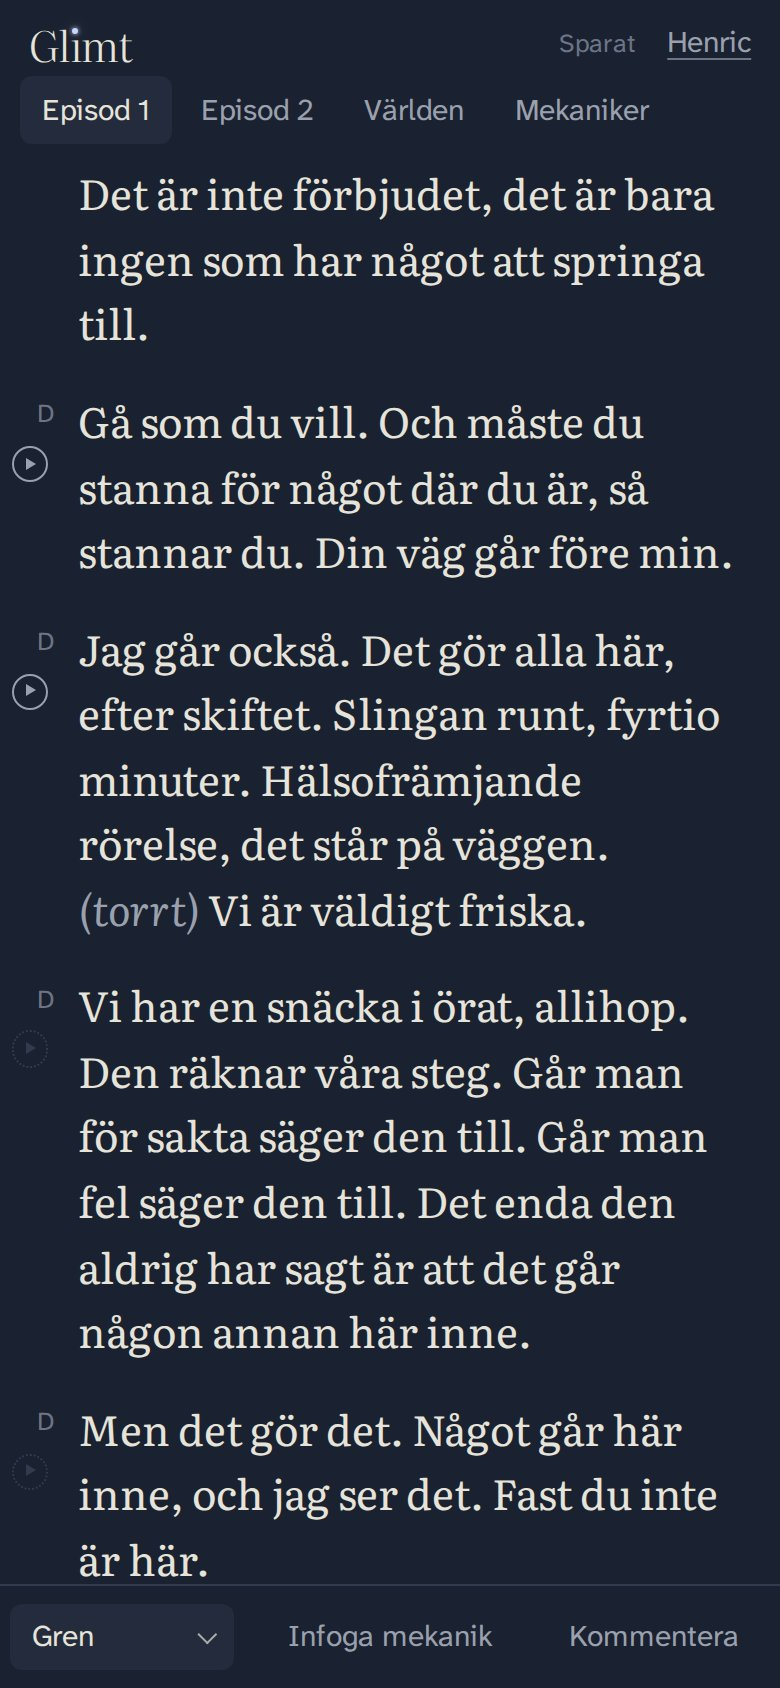
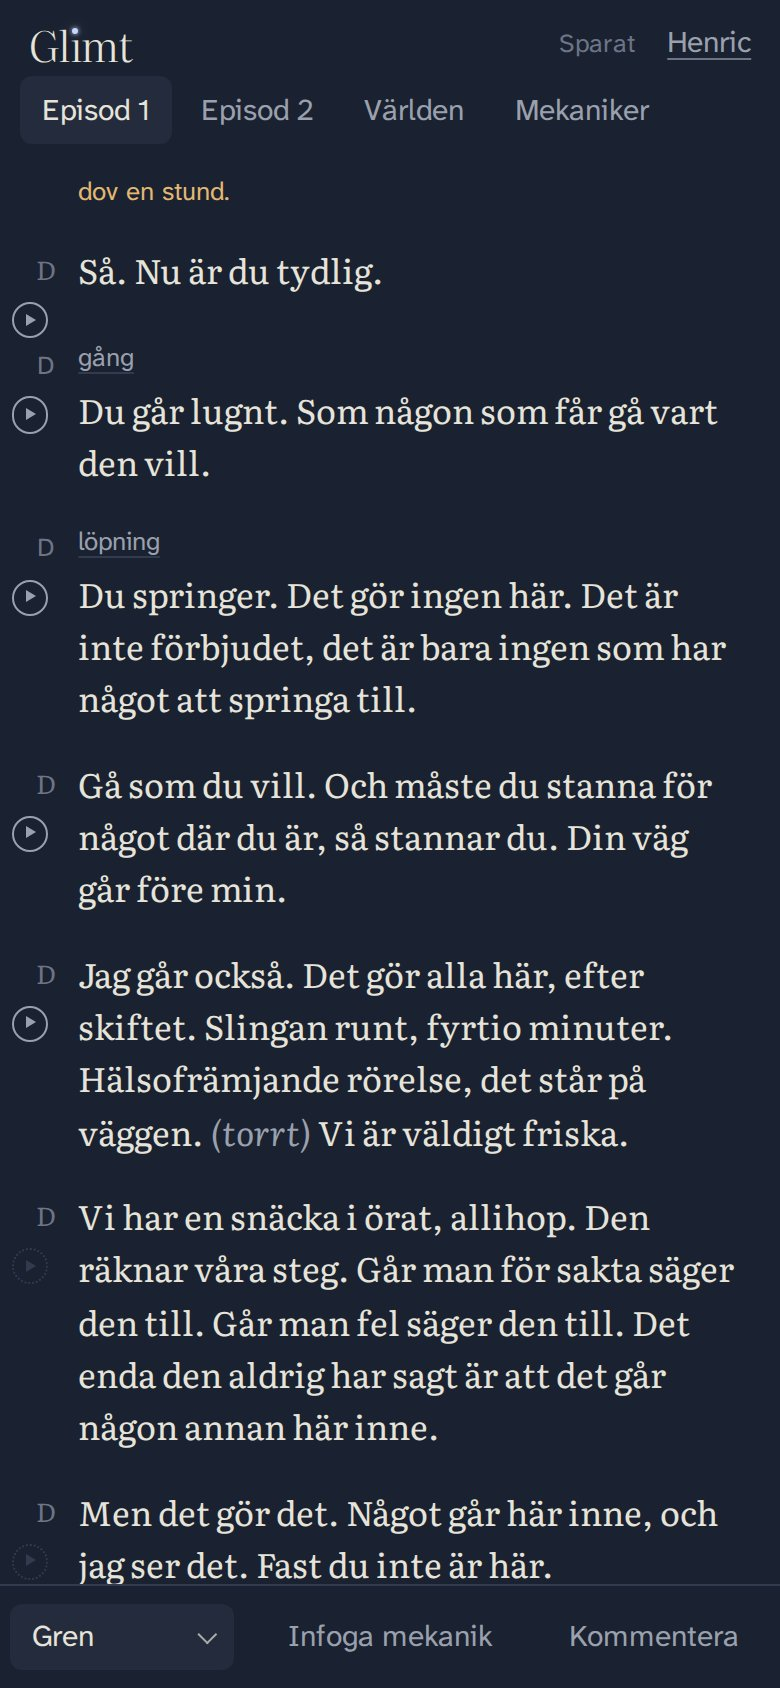
Room: initials in the paragraph's type, smaller lines on a phone
The initial in the margin now follows its paragraph as design/referens.html does: Literata beside Scenrubrik, Replik, Regi (italic, as the reference inherits it) and text, Atkinson beside Mekanik, Gren, Variant's label and Anteckning.

Under 40rem Replik and Variant go from --s2 to --s1: about five words a line on a 390px phone made it a page to read, not to write on. The Scenrubrik stays --s2 600 and now reads as a heading above them; Regi stays --s1. Wide screens unchanged.

DESIGN.md says both, and now says what the room already did with Variant: her line set like Replik, its label in Atkinson. Screenshots retaken with test_rummet_browser.py --skarmar.

diff --git a/rummet/rummet.css b/rummet/rummet.css
@@ -149,8 +149,14 @@ svg { width: 1.1rem; height: 1.1rem; fill: none; stroke: currentColor; stroke-wi
 .st > .under-st { grid-column: 2; }
 .st > .under-st:empty { display: none; }
 
-/* who last wrote the paragraph: an initial, H, L or D, in --svag */
+/* who last wrote the paragraph: an initial, H, L or D, in --svag, in the
+   paragraph's own type as in design/referens.html: Literata beside her words
+   and the titles (italic beside Regi), Atkinson beside the phone's (Mekanik,
+   Gren, Variant's label, Anteckning, tables) */
 .av { font-size: var(--s-1); line-height: 1; color: var(--svag); min-width: 0.8em; text-align: center; }
+.st:is(.scen, .replik, .regi, .rubrik, .stycke, .punkt) > .marg { font-family: var(--serif); }
+.st.regi > .marg { font-style: italic; }
+.st.stycke[data-form="kursiv"] > .marg { font-family: var(--sans); }
 button.av { position: relative; }
 button.av::after { content: ''; position: absolute; inset: -0.7rem; }
 button.av:hover { color: var(--text); }
@@ -497,6 +503,9 @@ textarea.falt { font-family: var(--serif); font-size: var(--s1); line-height: 1.
     border-top: 1px solid var(--linje);
   }
   body.med-verktyg .blad { padding-bottom: 11rem; }
+  /* her lines at the body size: a page to write on, not only to read. The
+     Scenrubrik stays at --s2 600 above them, Regi stays at --s1. */
+  .st.replik .text, .st.variant .text { font-size: var(--s1); }
   .st.variant .rad { grid-template-columns: minmax(0, 1fr); }
   .etikett { margin: 0 0 0.2rem; }
   .blad { overflow-x: clip; }

diff --git a/design/DESIGN.md b/design/DESIGN.md
@@ -117,10 +117,15 @@ Sätt på lurarna. …          <- hint, --dampad, --s0
 The room is a book on the blue hour: the page is the measure, the margin
 holds comments. Paragraph kinds by type, not by boxes: Scenrubrik Literata
 600 `--s2`; Replik Literata `--s2`; Regi Literata italic `--dampad`;
-Mekanik, Variant and Gren in Atkinson `--s0` `--dampad`, mechanic names
+Variant is her line set like Replik, after its label in Atkinson `--s-1`
+`--dampad`; Mekanik and Gren in Atkinson `--s0` `--dampad`, mechanic names
 with their `.dom` mark and no pill; Anteckning Atkinson `--s0` `--svag`.
+On a phone, under 40rem, Replik (and Variant with it) is `--s1`: the room
+is a page to write on, and the Scenrubrik stays `--s2` 600 above it.
 Who wrote a paragraph is an initial (H, L, D) in `--svag` in the left
-margin, not a coloured dot. Demi's comments are marked "Demi (AI)" in words,
+margin, not a coloured dot, in the paragraph's own type: Literata beside
+Scenrubrik, Replik, Regi (italic) and text, Atkinson beside Mekanik, Gren,
+Variant's label and Anteckning. Demi's comments are marked "Demi (AI)" in words,
 not with a dashed frame. The toolbar is plain text; the current item sits on
 `--skymning`.
 
